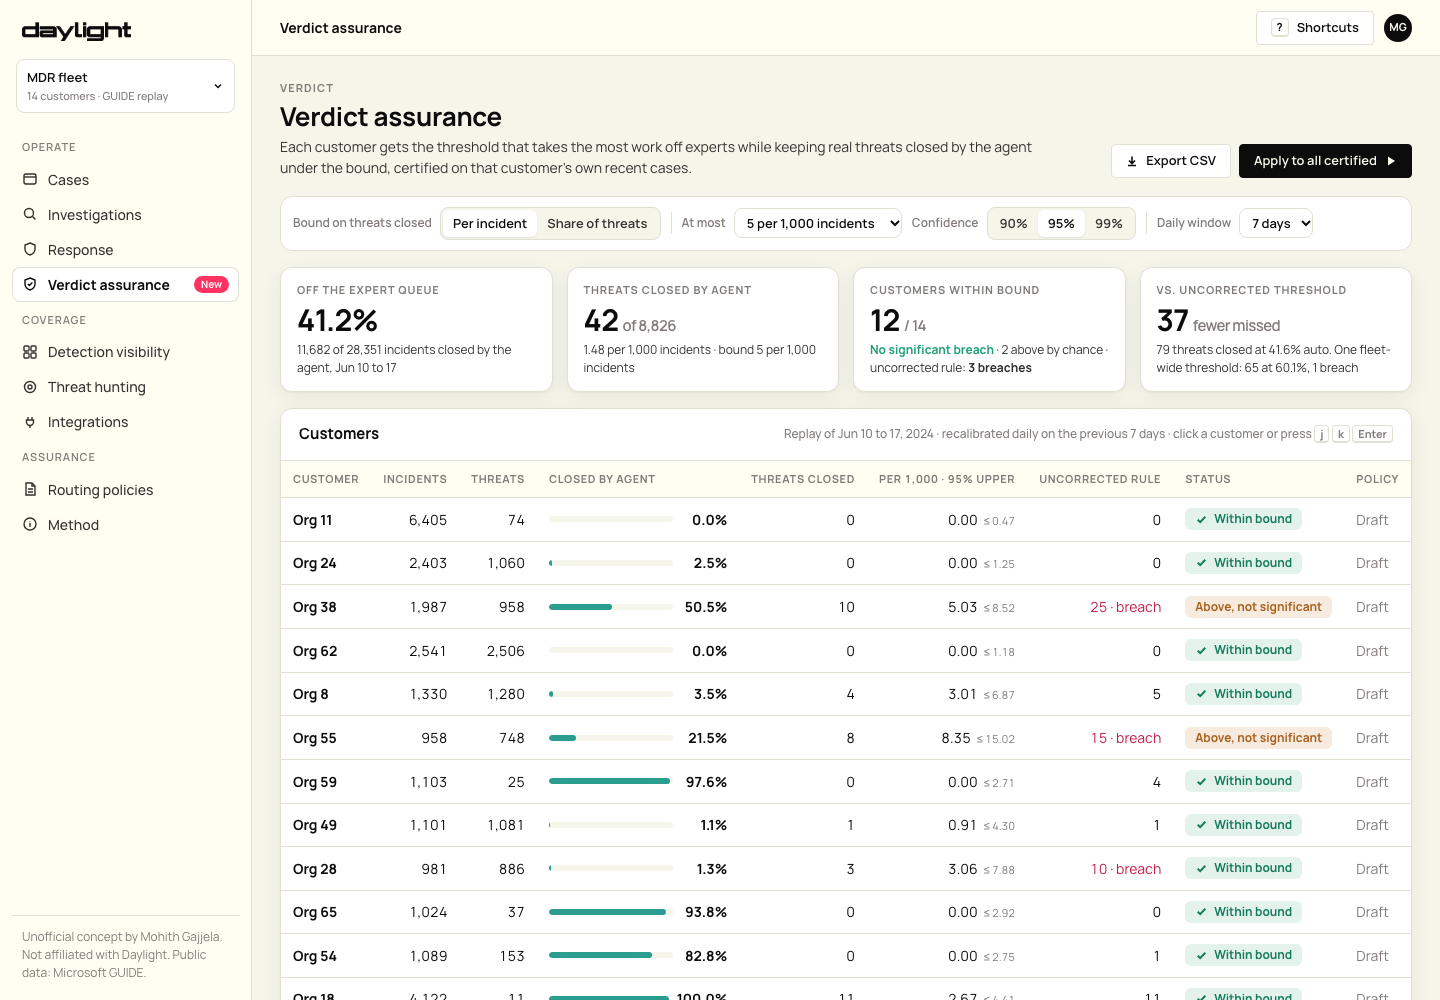
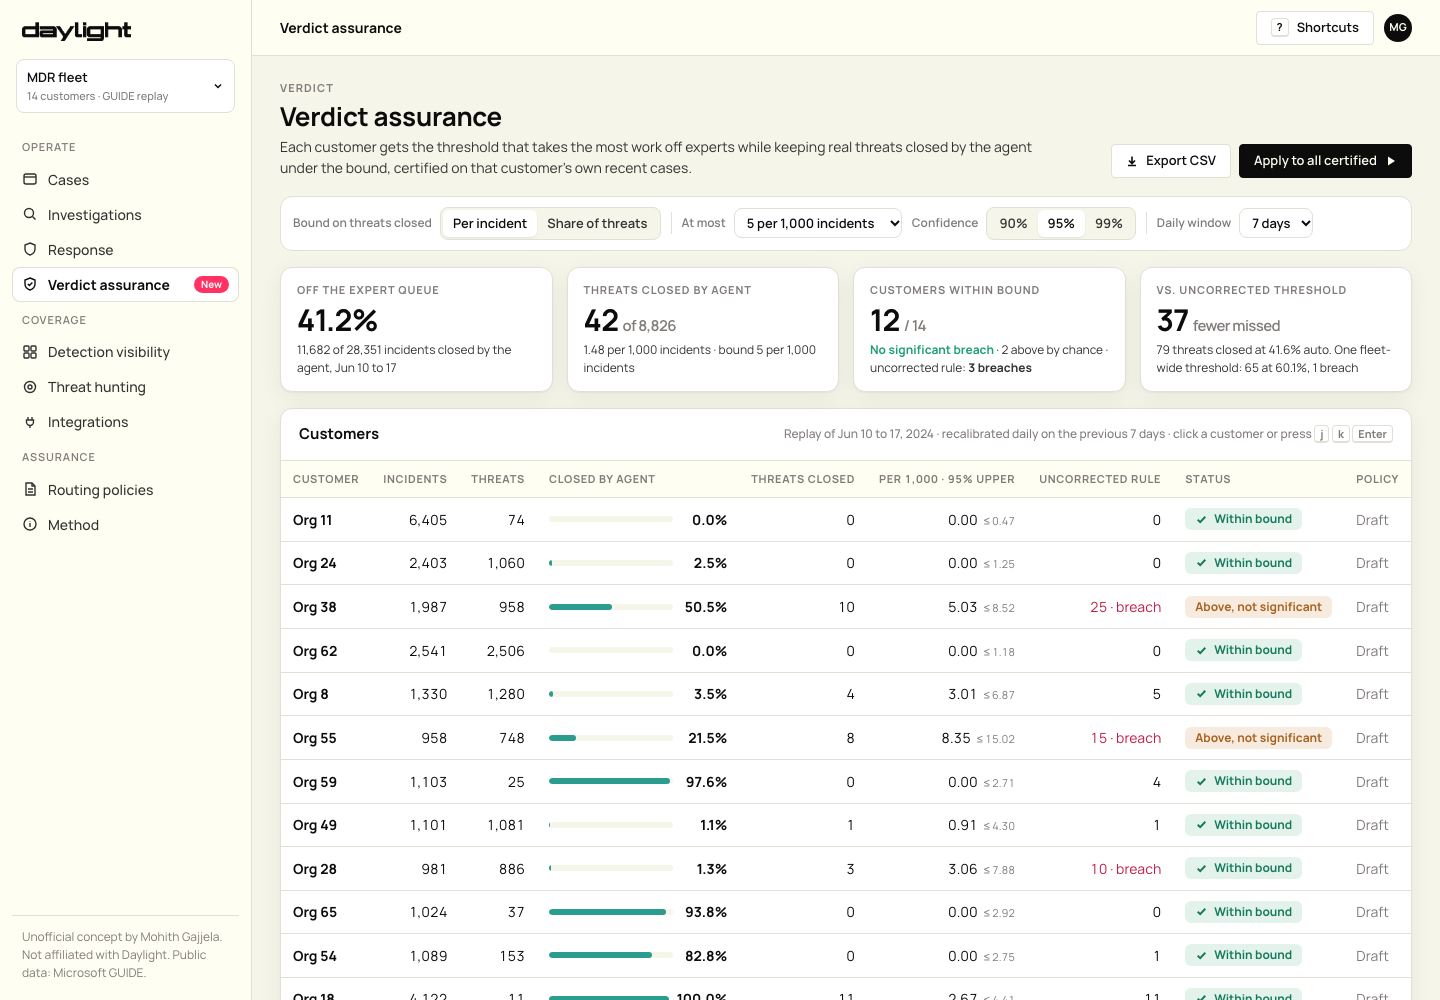
Live audit monitor: anytime-valid breach alarm from random expert audits

Changed region(s): [[0.8438, 0.992, 0.875, 1.0]]

diff --git a/app.js b/app.js
@@ -10,7 +10,7 @@ const dayLabel = (d) => new Date(DAY0 + d * 86400000).toLocaleDateString('en-US'
 const timeLabel = (m) => new Date(DAY0 + m * 60000).toLocaleString('en-US', { month: 'short', day: 'numeric', hour: '2-digit', minute: '2-digit', hour12: false, timeZone: 'UTC' }) + ' UTC';
 const STORE = 'daylight-verdict-assurance/v1';
 const FIRST = 9, LAST = 16; // replay days (Jun 10 - Jun 17, 2024)
-const DEF = { risk: 'leak', alpha: 0.005, conf: 95, window: 7, org: '', filter: 'all', inc: '' };
+const DEF = { risk: 'leak', alpha: 0.005, conf: 95, window: 7, org: '', filter: 'all', inc: '', audit: 0.1 };
 const ALPHAS = { leak: [0.001, 0.002, 0.005, 0.01], miss: [0.005, 0.01, 0.02, 0.05] };
 const RISK_LABEL = { leak: 'Threats closed per incident', miss: 'Share of threats closed' };
 
@@ -24,7 +24,8 @@ function readHash() {
   const [v, qs] = location.hash.replace(/^#/, '').split('?');
   const p = new URLSearchParams(qs || '');
   const s = { ...DEF, view: ['overview', 'customer', 'policies', 'method'].includes(v) ? v : 'overview' };
-  for (const k of Object.keys(DEF)) if (p.has(k)) s[k] = ['alpha', 'conf', 'window'].includes(k) ? Number(p.get(k)) : p.get(k);
+  for (const k of Object.keys(DEF)) if (p.has(k)) s[k] = ['alpha', 'conf', 'window', 'audit'].includes(k) ? Number(p.get(k)) : p.get(k);
+  if (![0.05, 0.1, 0.2].includes(s.audit)) s.audit = 0.1;
   if (!['leak', 'miss'].includes(s.risk)) s.risk = 'leak';
   if (!ALPHAS[s.risk].includes(s.alpha)) s.alpha = ALPHAS[s.risk][2];
   if (![90, 95, 99].includes(s.conf)) s.conf = 95;
@@ -216,6 +217,7 @@ function renderCustomer() {
     <div class="card"><div class="card-h"><h2>AI threat confidence, last ${s.window} days</h2><span class="legend"><span><i style="background:#ff3263"></i>Threat</span><span><i style="background:#c9c7bb"></i>Benign / false positive</span></span></div><div class="card-b"><svg class="chart" id="hist" role="img" aria-label="Score histogram with thresholds"></svg></div></div>
     <div class="card"><div class="card-h"><h2>Certification walk</h2><span class="meta">exact binomial test at each threshold, stop at first failure</span></div><div class="card-b"><svg class="chart" id="walk" role="img" aria-label="Risk and p-value as the threshold rises"></svg></div></div>
   </div>
+  ${s.risk === 'leak' ? monitorCard(org, incs) : ''}
   <div class="two">
     <div class="card"><div class="card-h"><h2>Incidents</h2><div class="seg" role="group" aria-label="Filter incidents">${[['all', 'All'], ['auto', 'Closed by agent'], ['esc', 'Escalated'], ['missed', 'Missed threats'], ['saved', 'Caught vs uncorrected']].map(([k, l]) => `<button data-f="${k}" aria-pressed="${s.filter === k}">${l} <span style="color:var(--text-tertiary)">${counts[k]}</span></button>`).join('')}</div></div>
       ${shown.length ? `<table><thead><tr><th>Incident</th><th>Created (UTC)</th><th>Category</th><th class="num">AI confidence</th><th>Routing</th><th>SOC grade</th></tr></thead><tbody>${shown.map((x) => `<tr class="click${selInc && x.i === selInc.i ? ' sel' : ''}" data-inc="${x.i}" tabindex="0"><td style="font-weight:700">#${x.iid}</td><td style="white-space:nowrap">${timeLabel(x.minute).replace(' UTC', '')}</td><td style="white-space:nowrap">${esc(x.category.replace(/([a-z])([A-Z])/g, '$1 $2'))}</td><td class="num">${x.score.toFixed(4)}</td><td>${x.auto ? `<span class="route auto"><span class="dot">${I.check}</span>Closed by agent</span>` : `<span class="route esc"><span class="dot">${I.up}</span>Escalated</span>`}</td><td>${x.grade === 'T' ? '<span class="chip breach">True positive</span>' : x.grade === 'B' ? '<span class="chip gray">Benign positive</span>' : '<span class="chip gray">False positive</span>'}</td></tr>`).join('')}</tbody></table>${list.length > 60 ? `<div style="padding:10px 18px;color:var(--text-tertiary);font-size:12px">Showing the 60 most recent of ${list.length}. Export for all.</div>` : ''}`
@@ -228,11 +230,48 @@ function renderCustomer() {
   </div>`;
   bindControls();
   drawHist(cal, cert.lambda, plg.lambda);
+  if (s.risk === 'leak') { drawMonitor(org, incs); for (const b of document.querySelectorAll('[data-audit]')) b.onclick = () => set({ audit: +b.dataset.audit }); }
   drawWalk(cert, s);
   for (const b of document.querySelectorAll('[data-f]')) b.onclick = () => set({ filter: b.dataset.f, inc: '' });
   for (const tr of document.querySelectorAll('tr[data-inc]')) { const go = () => set({ inc: tr.dataset.inc }); tr.onclick = go; tr.onkeydown = (e) => { if (e.key === 'Enter') go(); }; }
   $('apply').onclick = () => { if (applyPolicy(org, cert.lambda)) render(); };
   $('expInc').onclick = () => download(`org-${org}-incidents.csv`, C.toCSV(incs.map((x) => ({ incident: x.iid, created_utc: new Date(DAY0 + x.minute * 60000).toISOString(), category: x.category, ai_confidence: x.score, threshold: x.lam, routing: x.auto ? 'closed_by_agent' : 'escalated', soc_grade: { T: 'TruePositive', B: 'BenignPositive', F: 'FalsePositive' }[x.grade] }))));
+}
+
+function monitorStreams(org, incs) {
+  const s = state, r = s.audit;
+  const sorted = [...incs].sort((a, b) => a.minute - b.minute);
+  const mk = (key) => sorted.map((x) => ({ tp: x.tp, closed: x[key], audited: C.audited(x.iid, r) }));
+  const o = { alpha: s.alpha, rate: r, delta: 1 - s.conf / 100 };
+  return { cert: C.monitor(mk('auto'), o), plug: C.monitor(mk('autoP'), o), n: sorted.length };
+}
+function monitorCard(org, incs) {
+  const s = state, M = monitorStreams(org, incs);
+  const det = C.detectableLeak(M.n, { alpha: s.alpha, rate: s.audit, delta: 1 - s.conf / 100 });
+  const fmtA = (m) => m.alarm >= 0 ? `<span class="chip breach">${I.up}Alarm at incident ${m.alarm + 1}</span>` : '<span class="chip ok">' + I.check + 'No alarm</span>';
+  return `<div class="card" style="margin-bottom:16px"><div class="card-h"><h2>Live audit monitor</h2><div style="display:flex;gap:10px;align-items:center"><span class="meta">Expert-audit a random share of agent-closed incidents</span><div class="seg">${[0.05, 0.1, 0.2].map((r) => `<button data-audit="${r}" aria-pressed="${s.audit === r}">${r * 100}%</button>`).join('')}</div></div></div>
+    <div class="card-b" style="display:grid;grid-template-columns:1.6fr 1fr;gap:20px;align-items:center">
+      <svg class="chart" id="mon" role="img" aria-label="Anytime-valid e-value over the replay"></svg>
+      <div style="font-size:13px;color:var(--text-secondary)">
+        <p style="margin:0 0 10px">In production nobody labels what the agent closes. Auditing ${s.audit * 100}% of those cases (${M.cert.audits} audits here) feeds an anytime-valid test: if the e-value ever crosses ${Math.round(1 / (1 - s.conf / 100))}, the bound is very likely broken. The alarm can then revoke the policy, and the false-alarm risk stays under ${100 - s.conf}% however long it runs.</p>
+        <p style="margin:0 0 6px">Certified policy: ${fmtA(M.cert)}</p><p style="margin:0 0 10px">Uncorrected policy: ${fmtA(M.plug)}</p>
+        <p style="margin:0;color:var(--text-tertiary)">At this audit rate and this customer's volume (${fmt(M.n)} incidents over 8 days), only a rate of roughly ${(1000 * det).toFixed(1)} per 1,000 or worse would trip the alarm (normal approximation). Small breaches need more audits or more time.</p>
+      </div></div></div>`;
+}
+function drawMonitor(org, incs) {
+  const svg = $('mon'); if (!svg) return;
+  const M = monitorStreams(org, incs), s = state;
+  const W = svg.clientWidth || 600, H = 170, ml = 40, mr = 10, mt = 10, mb = 22;
+  const thr = 1 / (1 - s.conf / 100);
+  const all = [...M.cert.path, ...M.plug.path].filter((v) => v > 0);
+  const lmax = Math.log10(Math.max(thr * 3, ...all)), lmin = Math.min(-2, Math.log10(Math.max(1e-4, Math.min(...all))));
+  const x = (i) => ml + i / Math.max(1, M.n - 1) * (W - ml - mr), y = (v) => mt + (1 - (Math.log10(Math.max(v, 10 ** lmin)) - lmin) / (lmax - lmin)) * (H - mt - mb);
+  const path = (p) => p.map((v, i) => (i ? 'L' : 'M') + x(i).toFixed(1) + ' ' + y(v).toFixed(1)).join('');
+  let g = '';
+  for (const v of [0.01, 1, thr]) g += `<line x1="${ml}" x2="${W - mr}" y1="${y(v)}" y2="${y(v)}" stroke="${v === thr ? '#0d0c0c' : '#efeee3'}" ${v === thr ? 'stroke-dasharray="4 3"' : ''}/><text x="${ml - 6}" y="${y(v) + 4}" text-anchor="end">${v === thr ? 'alarm' : v}</text>`;
+  g += `<path d="${path(M.plug.path)}" fill="none" stroke="#ff3263" stroke-width="1.5"/><path d="${path(M.cert.path)}" fill="none" stroke="#2a9d8f" stroke-width="2"/>`;
+  g += `<text x="${ml}" y="${H - 6}">Jun 10</text><text x="${W - mr}" y="${H - 6}" text-anchor="end">Jun 17</text><text x="${W - mr}" y="${mt + 10}" text-anchor="end" style="fill:#1d7f74;font-weight:700">certified</text><text x="${W - mr - 62}" y="${mt + 10}" text-anchor="end" style="fill:#c21d47;font-weight:700">uncorrected</text>`;
+  svg.setAttribute('viewBox', `0 0 ${W} ${H}`); svg.style.height = H + 'px'; svg.innerHTML = g;
 }
 
 function incidentCard(x) {

diff --git a/src/core.js b/src/core.js
@@ -192,6 +192,50 @@ export function summarize(rows, alpha) {
     breaches: rows.filter((r) => r.risk > alpha + 1e-12).length, sigBreaches: rows.filter((r) => r.sigBreach).length, customers: rows.length, certified: rows.filter((r) => r.lambda > 0).length };
 }
 
+// ---------- live monitoring: audit sampling + anytime-valid alarm ----------
+
+/** Deterministic audit draw for an incident (hash of id), so replays are reproducible. */
+export function audited(iid, rate, salt = 0) {
+  let h = (iid ^ (salt * 0x9e3779b1)) >>> 0;
+  h = Math.imul(h ^ (h >>> 16), 0x45d9f3b) >>> 0; h = Math.imul(h ^ (h >>> 16), 0x45d9f3b) >>> 0; h = (h ^ (h >>> 16)) >>> 0;
+  return h / 4294967296 < rate;
+}
+
+/**
+ * Anytime-valid breach alarm for the per-incident bound, using only what production would know:
+ * escalated incidents get expert labels anyway; auto-closed ones are labelled only when randomly
+ * audited (probability `rate`). X_i = 1{closed by agent, audited, real threat} / rate is an unbiased
+ * estimate of the per-incident leak. Under H0: E[X] <= alpha, each K_lambda(t) = prod(1 + lambda (X_i - alpha))
+ * is a nonnegative supermartingale; their average is too, so by Ville's inequality
+ * P(sup_t K(t) >= 1/delta) <= delta. Returns the e-value path and the first alarm index.
+ */
+export function monitor(stream, { alpha, rate, delta = 0.05, lambdas = [0.25, 0.5, 1, 2, 4] } = {}) {
+  const ls = lambdas.map((c) => Math.min(c * rate, 0.5 / alpha));
+  const logK = ls.map(() => 0);
+  const path = [];
+  let alarm = -1;
+  for (let i = 0; i < stream.length; i++) {
+    const x = stream[i];
+    const X = x.closed && x.audited && x.tp ? 1 / rate : 0;
+    for (let j = 0; j < ls.length; j++) logK[j] += Math.log1p(ls[j] * (X - alpha));
+    const m = Math.max(...logK);
+    const K = Math.exp(m) * logK.reduce((a, v) => a + Math.exp(v - m), 0) / ls.length;
+    path.push(K);
+    if (alarm < 0 && K >= 1 / delta) alarm = i;
+  }
+  return { path, alarm, audits: stream.filter((x) => x.closed && x.audited).length };
+}
+
+/**
+ * Rough design aid (normal approximation to the e-process growth rate, not a guarantee):
+ * smallest per-incident leak mu > alpha that the monitor would flag after n incidents with audit
+ * rate r, solving n (mu - alpha)^2 / (2 mu / r) = ln(1/delta).
+ */
+export function detectableLeak(n, { alpha, rate, delta = 0.05 }) {
+  const c = 2 * Math.log(1 / delta) / (n * rate); // (mu - alpha)^2 = c mu
+  return alpha + c / 2 + Math.sqrt(c * c / 4 + c * alpha);
+}
+
 // ---------- utilities ----------
 
 export function auc(xs) {

diff --git a/README.md b/README.md
@@ -27,6 +27,7 @@ The certified rule takes the same work off experts as the uncorrected one, with 
 - **Certification (Learn then Test; Angelopoulos, Bates, Candès, Jordan & Lei, 2021).** On a fixed grid of 801 thresholds chosen before seeing data, walk upward from the strictest. At each λ, test H₀: risk(λ) > α with the exact p-value P(Bin(n, α) ≤ k), where k is the number of threats below λ. Stop at the first non-rejection. Fixed-sequence testing controls the family-wise error, so with probability ≥ 1−δ the certified λ keeps the true risk ≤ α when cases are exchangeable.
 - **Per customer, daily.** Each customer is certified on its own trailing window (Mondrian calibration). A customer without enough evidence gets no auto-close until it has some.
 - **Audit.** Applying a policy records version, threshold, bound, confidence and window (localStorage), with export to JSON.
+- **Live audit monitor.** In production nobody labels what the agent closes. Expert-audit a random 5-20% of agent-closed incidents. X = 1{closed, audited, threat}/rate is an unbiased estimate of the per-incident rate. A mixture of betting supermartingales ∏(1 + λ(X − α)) gives an anytime-valid alarm (Ville's inequality): false-alarm risk stays ≤ δ however long it runs. The page also shows roughly how large a breach this customer's volume and audit rate could catch in a week. Honest result: on this one-week replay no monitor alarms, not even for the uncorrected rule's 2.5× breach at Org 38. A week of audits is not enough evidence for breaches that size, which is exactly why the up-front certification matters.
 
 ## The app
 
@@ -38,13 +39,15 @@ The certified rule takes the same work off experts as the uncorrected one, with 
 
 ## Tests
 
-`node --test tests/core.test.mjs` runs 14 tests. They check:
+`node --test tests/core.test.mjs` runs 17 tests. They check:
 - the exact binomial CDF against direct summation, and the Clopper-Pearson inversion
 - sweep counts, and that certification stops at the first failure
 - that certification is never looser than the plug-in rule, and is monotone in α and δ
 - a randomized simulation showing Learn-then-Test keeps the true risk under α with probability ≥ 1−δ
 - a simulation showing the plug-in rule overshoots more than 3× as often
 - that the rolling replay equals the sum of the daily tables
+- the audit monitor's false-alarm rate (≤ δ, simulated) and its power against a 4× breach
+- that the detectable-breach estimate shrinks with more audits and more volume
 - the model's AUC
 - that `results.json` is reproduced exactly with the headline numbers
 
